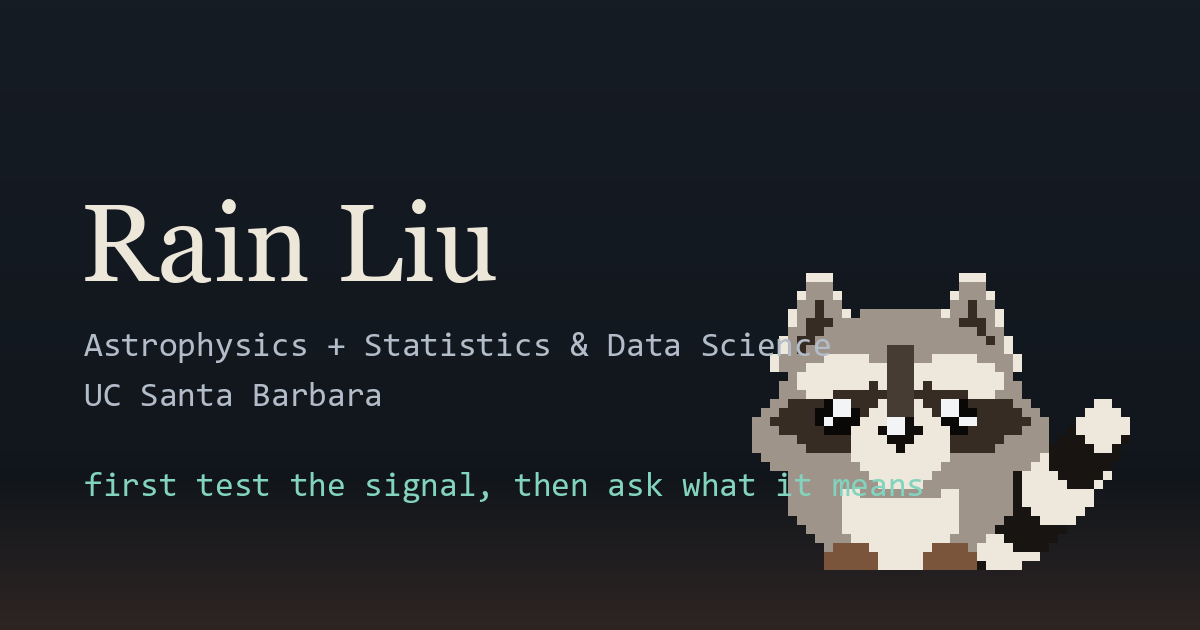
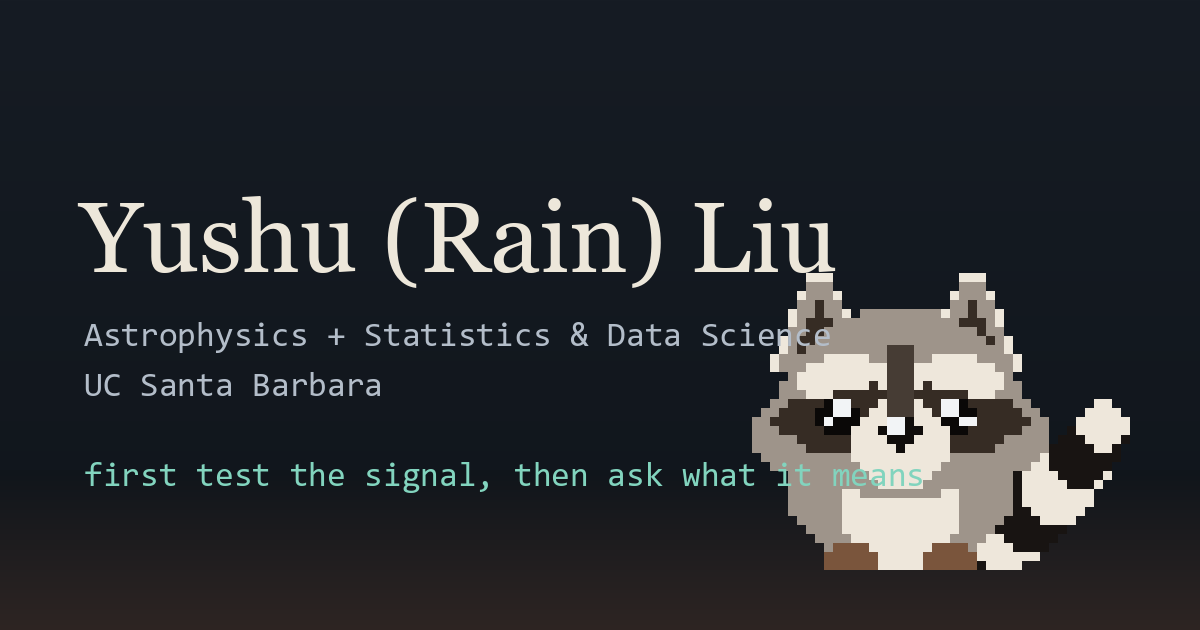
Primary name is Yushu Liu; Rain stays as alternate

diff --git a/index.html b/index.html
@@ -3,12 +3,12 @@
 <head>
 <meta charset="utf-8">
 <meta name="viewport" content="width=device-width,initial-scale=1">
-<title>Rain Liu</title>
-<meta name="description" content="Rain Liu — astrophysics & data science at UC Santa Barbara. Light curves, night skies, and things I build.">
+<title>Yushu Liu</title>
+<meta name="description" content="Yushu (Rain) Liu — astrophysics & data science at UC Santa Barbara. Light curves, night skies, and things I build.">
 <link rel="icon" type="image/png" href="favicon.png">
 <link rel="canonical" href="https://rainjinl.github.io/">
 <meta property="og:type" content="website">
-<meta property="og:title" content="Rain Liu">
+<meta property="og:title" content="Yushu Liu">
 <meta property="og:description" content="Astrophysics & data science at UC Santa Barbara. Light curves, night skies, and things I build.">
 <meta property="og:url" content="https://rainjinl.github.io/">
 <meta property="og:image" content="https://rainjinl.github.io/og-banner.png">
@@ -16,8 +16,8 @@
 <meta property="og:image:height" content="630">
 <meta name="twitter:card" content="summary_large_image">
 <script type="application/ld+json">
-{"@context":"https://schema.org","@type":"Person","name":"Rain Liu",
- "alternateName":["Yushu Liu"],"url":"https://rainjinl.github.io/",
+{"@context":"https://schema.org","@type":"Person","name":"Yushu Liu",
+ "alternateName":["Rain Liu"],"url":"https://rainjinl.github.io/",
  "image":"https://rainjinl.github.io/og-banner.png",
  "sameAs":["https://github.com/RainJinL"],
  "affiliation":{"@type":"CollegeOrUniversity","name":"University of California, Santa Barbara"},
@@ -150,7 +150,7 @@
 
 <nav aria-label="Site">
   <div class="in">
-    <span class="name">RAIN LIU</span>
+    <span class="name">YUSHU LIU</span>
     <a href="#about">ABOUT</a>
     <a href="#photography">PHOTOGRAPHY</a>
     <a href="#projects">PROJECTS</a>
@@ -270,7 +270,7 @@
     <span class="cv-soon" title="PDF coming soon">CV · SOON</span>
     <span class="motto"><canvas id="raccoon" width="44" height="34" role="img" aria-label="Pixel raccoon mascot" title="Little Raccoon - OC_Nova_1"></canvas><span class="mline">data doesn't lie; the stars don't disappear; all we need is patience</span></span>
   </div>
-  <div class="in fineprint">&copy; 2026 Rain (Yushu) Liu &middot; Updated Aug 2026</div>
+  <div class="in fineprint">&copy; 2026 Yushu (Rain) Liu &middot; Updated Aug 2026</div>
 </footer>
 
 <script>

diff --git a/404.html b/404.html
@@ -3,7 +3,7 @@
 <head>
 <meta charset="utf-8">
 <meta name="viewport" content="width=device-width,initial-scale=1">
-<title>Not found - Rain Liu</title>
+<title>Not found - Yushu Liu</title>
 <link rel="icon" type="image/png" href="/favicon.png">
 <style>
   body{margin:0;min-height:100vh;display:flex;align-items:center;justify-content:center;

diff --git a/AGENTS.md b/AGENTS.md
@@ -41,6 +41,10 @@ https://rainjinl.github.io （repo: `RainJinL/RainJinL.github.io`，public）。
 6. 可读性标准：次级文字对比度 ≥ WCAG AAA（现 `#B3BDC9` on `#10151B` ≈ 9:1）——受众有年长教授，**只许更清晰，不许调暗**。
 7. Git 身份：仓库已配置 `user.email = 152076551+RainJinL@users.noreply.github.com`，**不要改**（Rain 的 GitHub 不用学校邮箱，任何真实邮箱都不进提交历史）。
 
+## 命名
+
+站内主名为 **Yushu Liu**（Rain 作为别名保留，JSON-LD alternateName）——Rain 2026-08-24 拍板，新增文案照此执行。
+
 ## 站点文件
 
 - `og-banner.png`：链接预览卡配图（占位版，照片到位后可换）；`404.html`：GitHub Pages 自动使用
